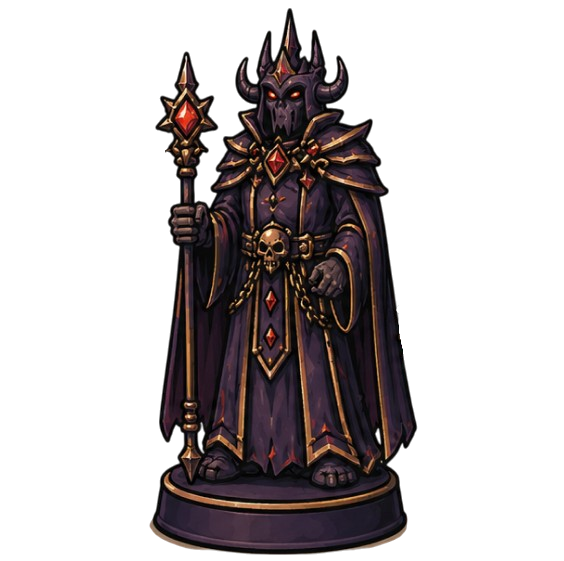
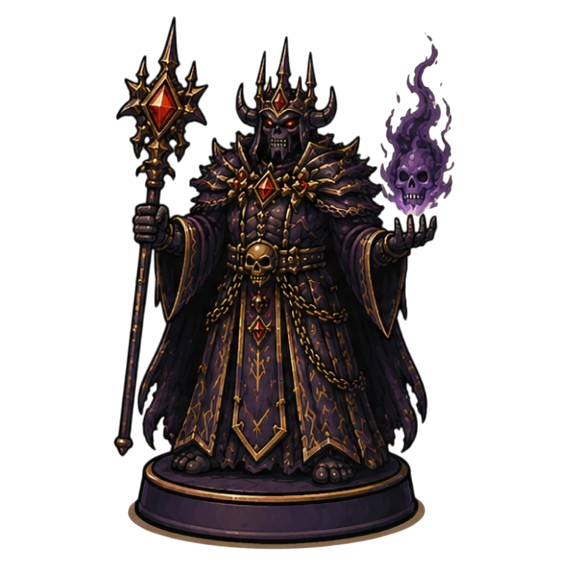
fix beast rider interaction with servant and update pluto design

diff --git a/chess/src/GamePlay.jsx b/chess/src/GamePlay.jsx
@@ -529,7 +529,7 @@ function GamePlay({ whiteDeck, blackDeck, whiteType, blackType }) {
 
           // If servant captures an enemy piece, both servant and enemy piece die
           if (targetPiece?.color && targetPiece.color !== piece.color) {
-            targetPiece?.color && targetPiece.color
+            returnBeastRiderAsPawnToHand(targetPiece)
             next[originIndex] = null
             next[targetIndex] = null
             return
